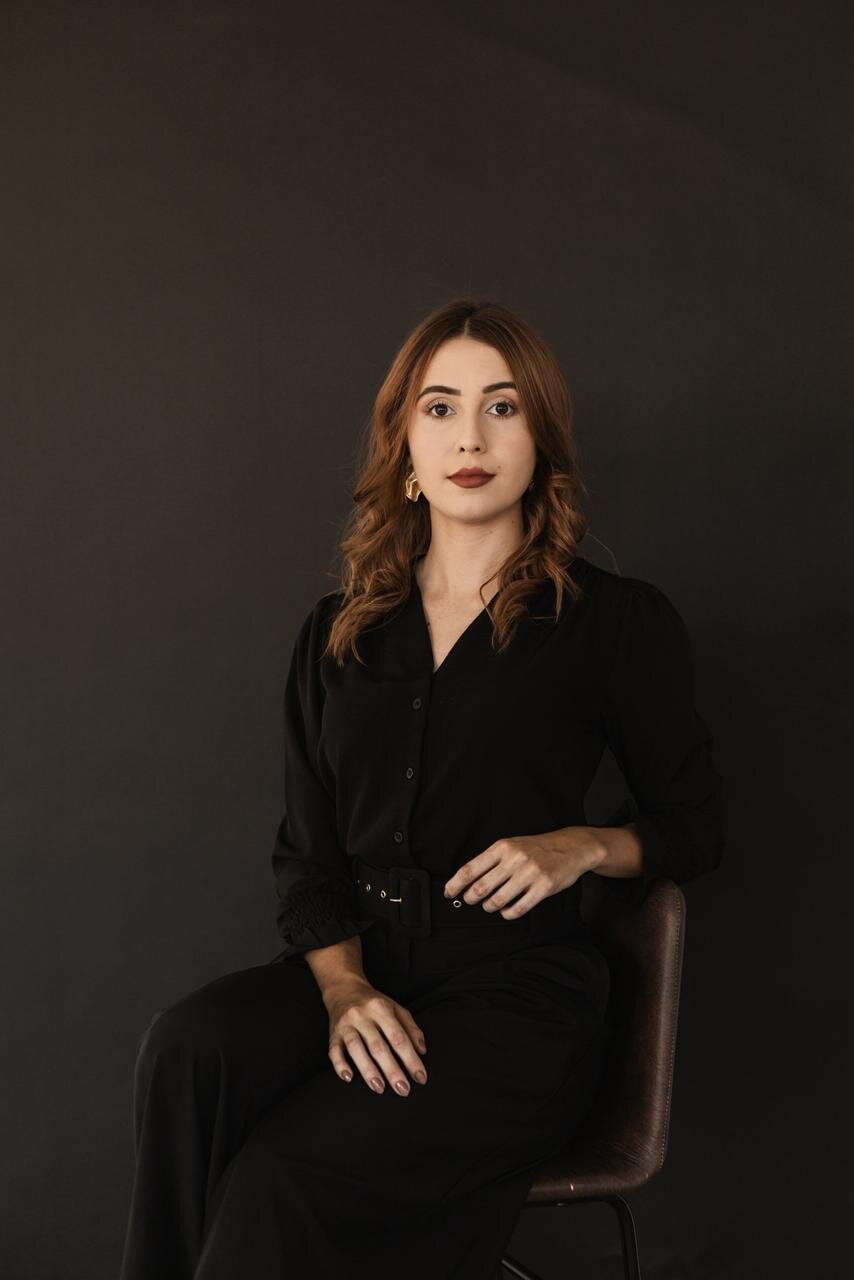
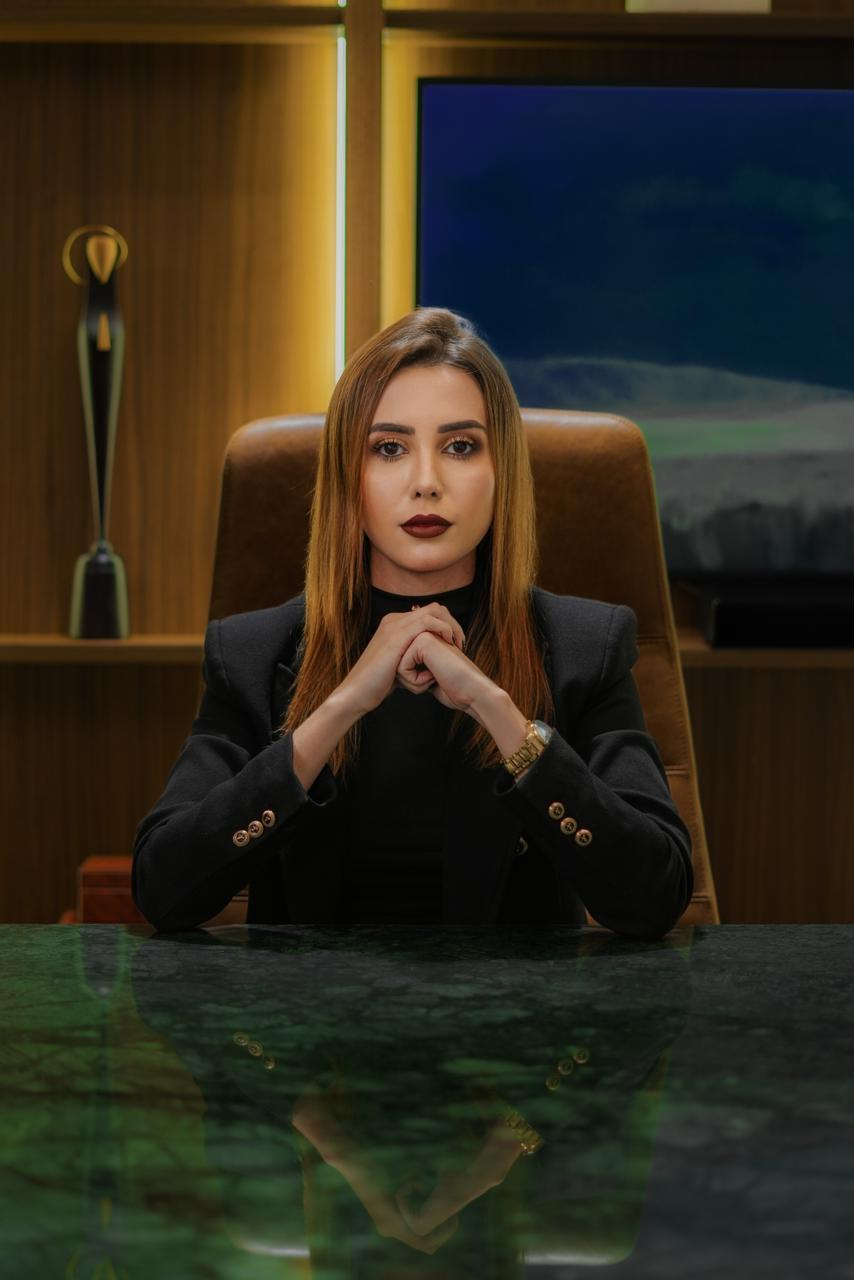
Remove Testimonials component and update image assets in About section. Replace quotes with plain text in various components for consistency. Clean up unused image files.

diff --git a/components/hero.tsx b/components/hero.tsx
@@ -148,38 +148,38 @@ const Hero = () => {
                 </div>
 
                 {/* Imagem Desktop - Posicionada absolutamente no bottom direito */}
-                <motion.div
-                    initial={{opacity: 0, x: 50}}
-                    animate={{opacity: 1, x: 0}}
-                    transition={{duration: 0.8, delay: 0.4}}
-                    className="hidden lg:block absolute bottom-0 right-0 w-1/2 h-[calc(100vh-120px)] max-h-[900px]"
-                >
-                    <Image
-                        src="/lawyer_main.png"
-                        alt="Dra. Glória Menezes"
-                        fill
-                        className="object-contain object-bottom"
-                        priority
-                        sizes="50vw"
-                    />
-                </motion.div>
+                {/*<motion.div*/}
+                {/*    initial={{opacity: 0, x: 50}}*/}
+                {/*    animate={{opacity: 1, x: 0}}*/}
+                {/*    transition={{duration: 0.8, delay: 0.4}}*/}
+                {/*    className="hidden lg:block absolute bottom-0 right-0 w-1/2 h-[calc(100vh-120px)] max-h-[900px]"*/}
+                {/*>*/}
+                {/*    <Image*/}
+                {/*        src="/lawyer_main.png"*/}
+                {/*        alt="Dra. Glória Menezes"*/}
+                {/*        fill*/}
+                {/*        className="object-contain object-bottom"*/}
+                {/*        priority*/}
+                {/*        sizes="50vw"*/}
+                {/*    />*/}
+                {/*</motion.div>*/}
 
                 {/* Imagem Mobile - Posicionada absolutamente no bottom */}
-                <motion.div
-                    initial={{opacity: 0, scale: 0.8}}
-                    animate={{opacity: 1, scale: 1}}
-                    transition={{duration: 0.8, delay: 0.6}}
-                    className="lg:hidden absolute bottom-0 left-0 right-0 h-[50vh] min-h-[300px]"
-                >
-                    <Image
-                        src="/lawyer_main.png"
-                        alt="Dra. Glória Menezes"
-                        fill
-                        className="object-contain object-bottom"
-                        priority
-                        sizes="100vw"
-                    />
-                </motion.div>
+                {/*<motion.div*/}
+                {/*    initial={{opacity: 0, scale: 0.8}}*/}
+                {/*    animate={{opacity: 1, scale: 1}}*/}
+                {/*    transition={{duration: 0.8, delay: 0.6}}*/}
+                {/*    className="lg:hidden absolute bottom-0 left-0 right-0 h-[50vh] min-h-[300px]"*/}
+                {/*>*/}
+                {/*    <Image*/}
+                {/*        src="/lawyer_main.png"*/}
+                {/*        alt="Dra. Glória Menezes"*/}
+                {/*        fill*/}
+                {/*        className="object-contain object-bottom"*/}
+                {/*        priority*/}
+                {/*        sizes="100vw"*/}
+                {/*    />*/}
+                {/*</motion.div>*/}
 
                 {/* Arrow - Posicionada absolutamente no bottom */}
                 <motion.div

diff --git a/components/about.tsx b/components/about.tsx
@@ -51,12 +51,11 @@ const About = () => {
     if (!mounted) return null
 
     const images = [
-        { src: '/lawyer-0.jpeg', alt: 'Dra. Glória Menezes - Foto 0' },
         { src: '/lawyer-1.jpg', alt: 'Dra. Glória Menezes - Foto 1' },
         { src: '/lawyer-2.png', alt: 'Dra. Glória Menezes - Foto 2' },
-        { src: '/lawyer-3.jpg', alt: 'Dra. Glória Menezes - Foto 3' },
-        { src: '/lawyer-4.png', alt: 'Dra. Glória Menezes - Foto 4' },
-        { src: '/lawyer-5.png', alt: 'Dra. Glória Menezes - Foto 5' },
+        { src: '/lawyer-3.png', alt: 'Dra. Glória Menezes - Foto 3' },
+        { src: '/lawyer-4.jpeg', alt: 'Dra. Glória Menezes - Foto 4' },
+        { src: '/lawyer-5.jpeg', alt: 'Dra. Glória Menezes - Foto 5' },
     ]
 
     const stats = [
@@ -77,7 +76,7 @@ const About = () => {
                     className="text-center mb-16"
                 >
                     <p className="text-xl text-gray-300 max-w-3xl mx-auto italic">
-                        "A segurança de uma advocacia que compreende os fluxos internos do sistema financeiro."
+                        A segurança de uma advocacia que compreende os fluxos internos do sistema financeiro.
                     </p>
                 </motion.div>
 
@@ -196,7 +195,7 @@ const About = () => {
                     className="mt-16 text-center"
                 >
                     <p className="text-xl text-gray-300 italic max-w-4xl mx-auto">
-                        "Resultados construídos com base em experiência real e domínio técnico do mercado."
+                        Resultados construídos com base em experiência real e domínio técnico do mercado.
                     </p>
                 </motion.div>
             </div>

diff --git a/components/contact.tsx b/components/contact.tsx
@@ -141,9 +141,9 @@ ${formData.message}
                         Entre em Contato
                     </h2>
                     <p className="text-xl text-gray-600 max-w-3xl mx-auto italic">
-                        "Nossa atuação une o rigor do Direito Agrário à expertise operacional do Crédito Rural,
+                        Nossa atuação une o rigor do Direito Agrário à expertise operacional do Crédito Rural,
                         entregando soluções que se alinham à realidade das instituições financeiras e atendem às
-                        necessidades do produtor."
+                        necessidades do produtor.
                     </p>
                 </motion.div>
 

diff --git a/components/header.tsx b/components/header.tsx
@@ -67,12 +67,6 @@ const Header = () => {
                             Áreas de Atuação
                         </button>
                         <button
-                            onClick={() => scrollToSection('depoimentos')}
-                            className="nav-link text-white hover:text-light-green font-medium transition-colors"
-                        >
-                            Depoimentos
-                        </button>
-                        <button
                             onClick={() => scrollToSection('faq')}
                             className="nav-link text-white hover:text-light-green font-medium transition-colors"
                         >

diff --git a/components/areas.tsx b/components/areas.tsx
@@ -92,8 +92,8 @@ const Areas = () => {
                         Áreas de Atuação
                     </h2>
                     <p className="text-xl text-gray-300 max-w-3xl mx-auto italic">
-                        "Assessoria jurídica completa para o agronegócio, unindo rigor técnico e visão estratégica em
-                        todas as etapas da atividade rural."
+                        Assessoria jurídica completa para o agronegócio, unindo rigor técnico e visão estratégica em
+                        todas as etapas da atividade rural.
                     </p>
                 </motion.div>
 

diff --git a/app/page.tsx b/app/page.tsx
@@ -4,7 +4,6 @@ import Hero from '@/components/hero'
 import About from '@/components/about'
 import Services from '@/components/services'
 import Areas from '@/components/areas'
-import Testimonials from '@/components/testimonials'
 import FAQ from '@/components/faq'
 import Contact from '@/components/contact'
 import Footer from '@/components/footer'
@@ -18,7 +17,6 @@ export default function HomePage() {
       <About />
       <Services />
       <Areas />
-      <Testimonials />
       <FAQ />
       <Contact />
       <Footer />
